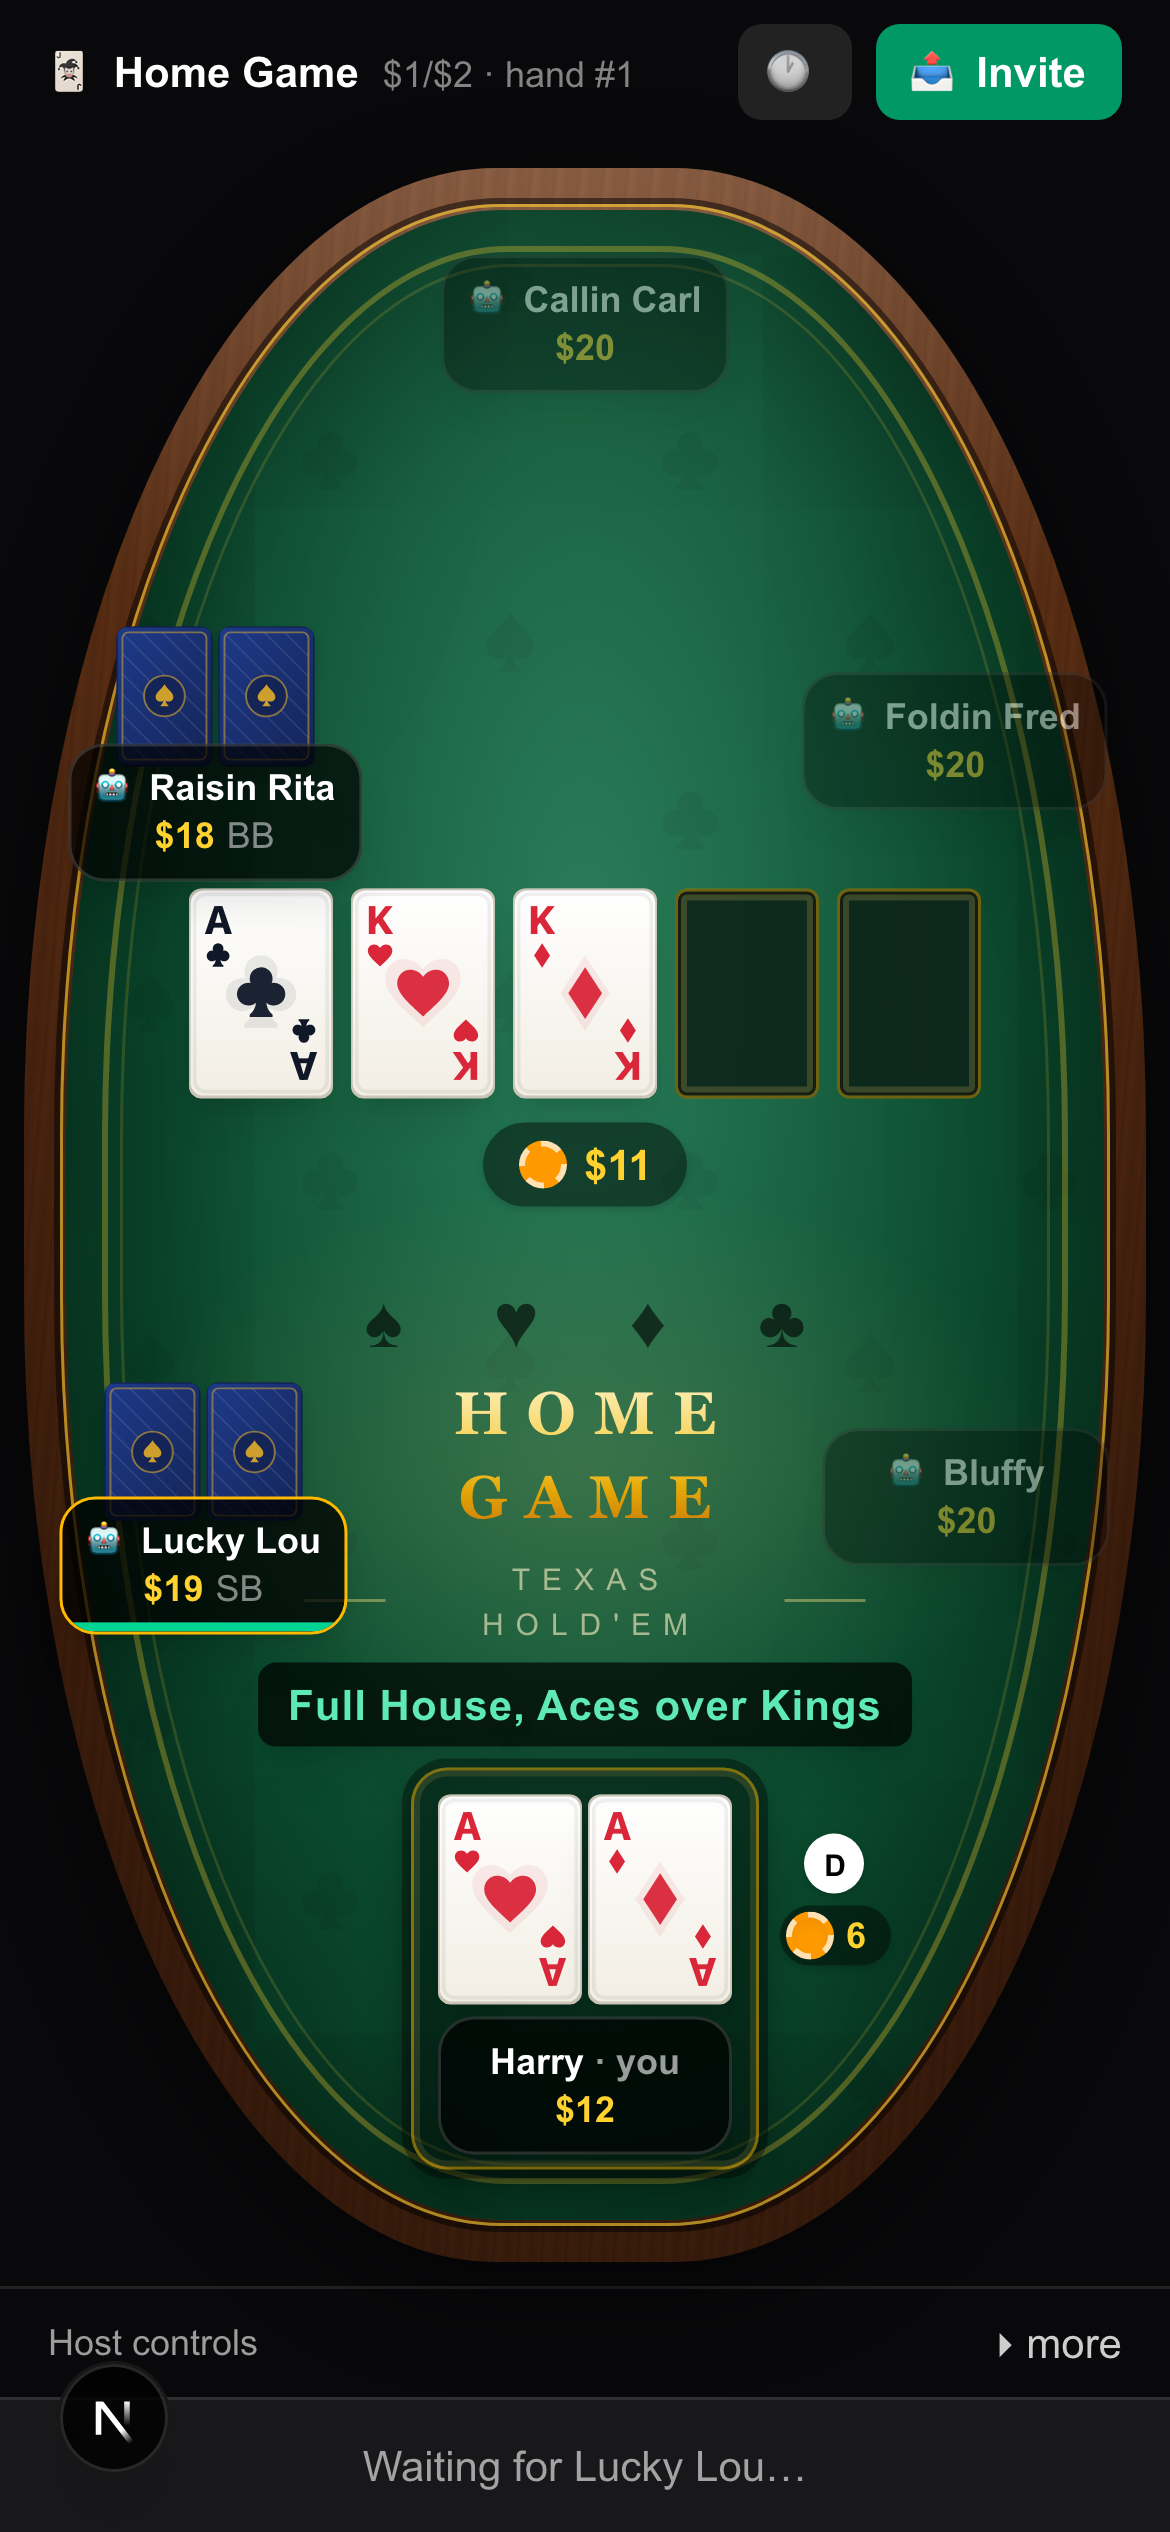
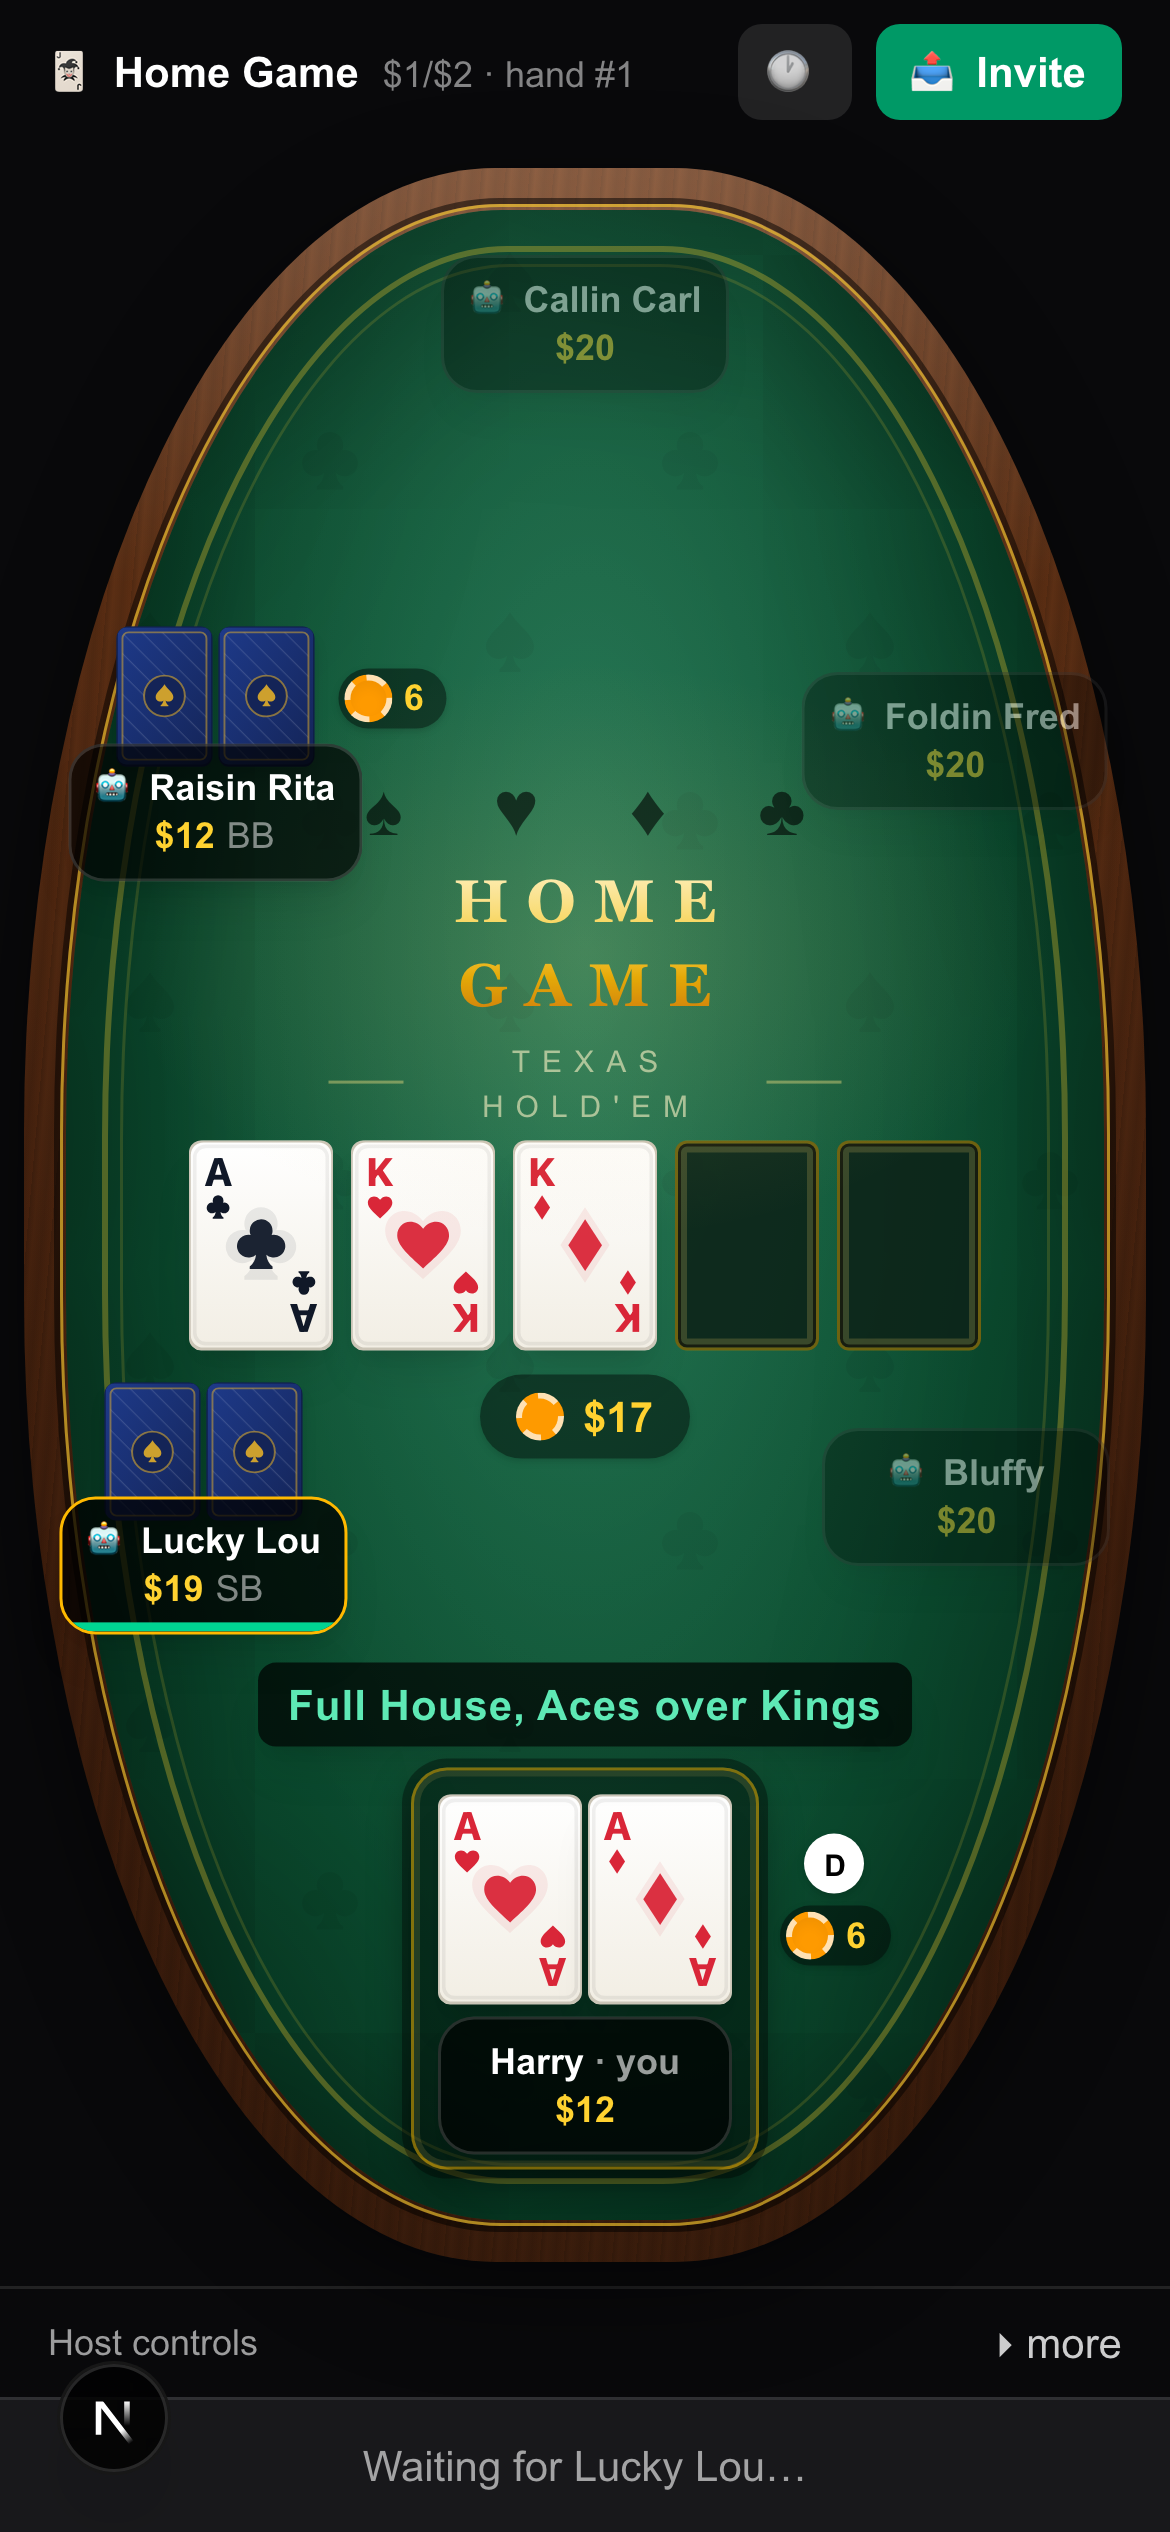
Refresh README screenshots with a live flop street.
The hero now faces a bet (or has one out) so the new chip placement and wordmark show up in the docs, not just an empty check-or-bet flop.

Changed region(s): [[0.1538, 0.2496, 0.8615, 0.6552]]

diff --git a/src/server/demo-hands.ts b/src/server/demo-hands.ts
@@ -18,6 +18,9 @@ interface Setup {
   street: Street;
   /** Street bet already in front of the hero (0 = checked to the button). */
   heroStreetBet: number;
+  /** Flop chips in front of the blinds so the table shows a live street. */
+  sbStreetBet?: number;
+  bbStreetBet?: number;
 }
 
 const SETUPS: Record<DemoHand, Setup> = {
@@ -27,18 +30,22 @@ const SETUPS: Record<DemoHand, Setup> = {
     board: ['Tc', '2s', 'Kc'],
     street: 'flop',
     heroStreetBet: 0,
+    sbStreetBet: 4,
+    bbStreetBet: 4,
   },
   'trips-kings': {
     hole: ['Kh', 'Kd'],
     board: ['Kc', '7s', '4d'],
     street: 'flop',
     heroStreetBet: 4,
+    bbStreetBet: 4,
   },
   'full-house': {
     hole: ['Ah', 'Ad'],
     board: ['Ac', 'Kh', 'Kd'],
     street: 'flop',
     heroStreetBet: 6,
+    bbStreetBet: 6,
   },
 };
 
@@ -124,23 +131,45 @@ export function applyDemoHand(state: GameState, setup: DemoHand, now: number): G
 
   const othersIn = [sb?.id, bb?.id].filter((id): id is string => !!id);
   const streetBet = spec.heroStreetBet;
+  const sbStreet = spec.sbStreetBet ?? 0;
+  const bbStreet = spec.bbStreetBet ?? 0;
   if (streetBet > 0) {
     next.players[heroId].stack -= streetBet;
     hand.totalCommitted[heroId] += streetBet;
   }
+  if (sb && sbStreet > 0) {
+    next.players[sb.id].stack -= sbStreet;
+    hand.totalCommitted[sb.id] += sbStreet;
+  }
+  if (bb && bbStreet > 0) {
+    next.players[bb.id].stack -= bbStreet;
+    hand.totalCommitted[bb.id] += bbStreet;
+  }
+
+  const committed: Record<string, number> = {};
+  if (streetBet > 0) committed[heroId] = streetBet;
+  if (sb && sbStreet > 0) committed[sb.id] = sbStreet;
+  if (bb && bbStreet > 0) committed[bb.id] = bbStreet;
+  const currentBet = Math.max(streetBet, sbStreet, bbStreet);
+  const heroFacesABet = currentBet > streetBet;
+  const acted = [
+    ...(streetBet > 0 ? [heroId] : []),
+    ...(sb && sbStreet > 0 ? [sb.id] : []),
+    ...(bb && bbStreet > 0 ? [bb.id] : []),
+  ];
 
   hand.round = {
     street: spec.street,
-    currentBet: streetBet,
-    lastFullRaiseSize: streetBet > 0 ? streetBet : bbAmt,
-    lastFullRaiseTo: streetBet,
-    committed: streetBet > 0 ? { [heroId]: streetBet } : {},
-    actedSinceFullRaise: streetBet > 0 ? [heroId] : [...othersIn],
-    lastAggressor: streetBet > 0 ? heroId : null,
-    toAct: streetBet > 0 ? (othersIn[0] ?? null) : heroId,
+    currentBet,
+    lastFullRaiseSize: currentBet > 0 ? currentBet : bbAmt,
+    lastFullRaiseTo: currentBet,
+    committed,
+    actedSinceFullRaise: acted,
+    lastAggressor: bb && bbStreet > 0 ? bb.id : streetBet > 0 ? heroId : null,
+    toAct: heroFacesABet ? heroId : streetBet > 0 ? (othersIn[0] ?? null) : heroId,
     actionDeadline: now + 3_600_000,
     timeBankArmed: false,
-    botActAt: streetBet > 0 ? now + 3_600_000 : null,
+    botActAt: heroFacesABet ? null : streetBet > 0 ? now + 3_600_000 : null,
   };
   hand.result = null;
 

diff --git a/src/server/demo-hands.test.ts b/src/server/demo-hands.test.ts
@@ -19,8 +19,9 @@ describe('applyDemoHand', () => {
     expect(hand.buttonSeat).toBe(state.players[hero].seat);
     expect(hand.round.toAct).toBe(hero);
     expect(hand.round.street).toBe('flop');
-    expect(getLegalActions(state, hero)?.canCheck).toBe(true);
-    expect(getLegalActions(state, hero)?.canBet).toBe(true);
+    expect(hand.round.currentBet).toBe(4);
+    expect(getLegalActions(state, hero)?.canCheck).toBe(false);
+    expect(getLegalActions(state, hero)?.callAmount).toBe(4);
   });
 
   it('plants Three of a Kind, Kings with a flop bet out', () => {

diff --git a/README.md b/README.md
@@ -22,14 +22,14 @@ A polished, mobile-first multiplayer poker table with a hidden automated dealer.
 
 ## Screenshots
 
-Live gameplay on a phone. Your made hand is named on the felt above the cards; the dealer button and your street bet sit to the right of the hole cards so a long caption never covers them.
+Live gameplay on a phone. The wordmark sits with the board; your made hand is named on the felt above the cards; the dealer button and street bets sit beside the hole cards so a long caption never covers them.
 
-![Gameplay — flop, pair of twos, your turn](docs/gameplay.png)
+![Gameplay — flop, pair of twos, facing a $4 bet](docs/gameplay.png)
 
 | Pair of Twos | Three of a Kind, Kings | Full House, Aces over Kings |
 | :---: | :---: | :---: |
-| <img src="docs/hand-label-closeup.png" alt="Hero seat — Pair of Twos labeled above 4♥ 2♣, dealer button to the right" width="220"> | <img src="docs/hand-three-kings.png" alt="Flop trips — pocket kings plus a king, $4 bet and D to the right of the cards" width="180"> | <img src="docs/hand-full-house.png" alt="Flop full house — pocket aces with ace-king-king, $6 bet and D to the right" width="180"> |
-| Hole 4♥ 2♣, flop T♣ 2♠ K♣. | Pocket kings, flop K♣ 7♠ 4♦. | Pocket aces, flop A♣ K♥ K♦. |
+| <img src="docs/hand-label-closeup.png" alt="Hero seat — Pair of Twos labeled above 4♥ 2♣, dealer button to the right" width="220"> | <img src="docs/hand-three-kings.png" alt="Flop trips — pocket kings plus a king, $4 bet and D beside the cards, opponent called" width="180"> | <img src="docs/hand-full-house.png" alt="Flop full house — pocket aces with ace-king-king, $6 bet and D beside the cards" width="180"> |
+| Hole 4♥ 2♣, flop T♣ 2♠ K♣. Facing $4. | Pocket kings, flop K♣ 7♠ 4♦. $4 out. | Pocket aces, flop A♣ K♥ K♦. $6 out. |
 
 ## Stack
 
